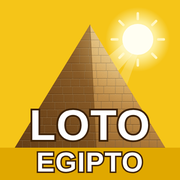
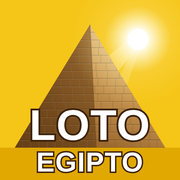
Icono: sol más realista

Changed region(s): [[0.5556, 0.0278, 0.9722, 0.4167], [0.6667, 0.3611, 0.6944, 0.3889]]

diff --git a/index.html b/index.html
@@ -7,9 +7,9 @@
 <meta name="apple-mobile-web-app-capable" content="yes">
 <meta name="apple-mobile-web-app-title" content="Loto Egipto">
 <title>Loto Egipto</title>
-<link rel="manifest" href="manifest.json?v=6">
-<link rel="apple-touch-icon" href="apple-touch-icon.png?v=6">
-<link rel="icon" href="icon-192.png?v=6">
+<link rel="manifest" href="manifest.json?v=7">
+<link rel="apple-touch-icon" href="apple-touch-icon.png?v=7">
+<link rel="icon" href="icon-192.png?v=7">
 <meta name="apple-mobile-web-app-status-bar-style" content="default">
 <style>
 :root{
